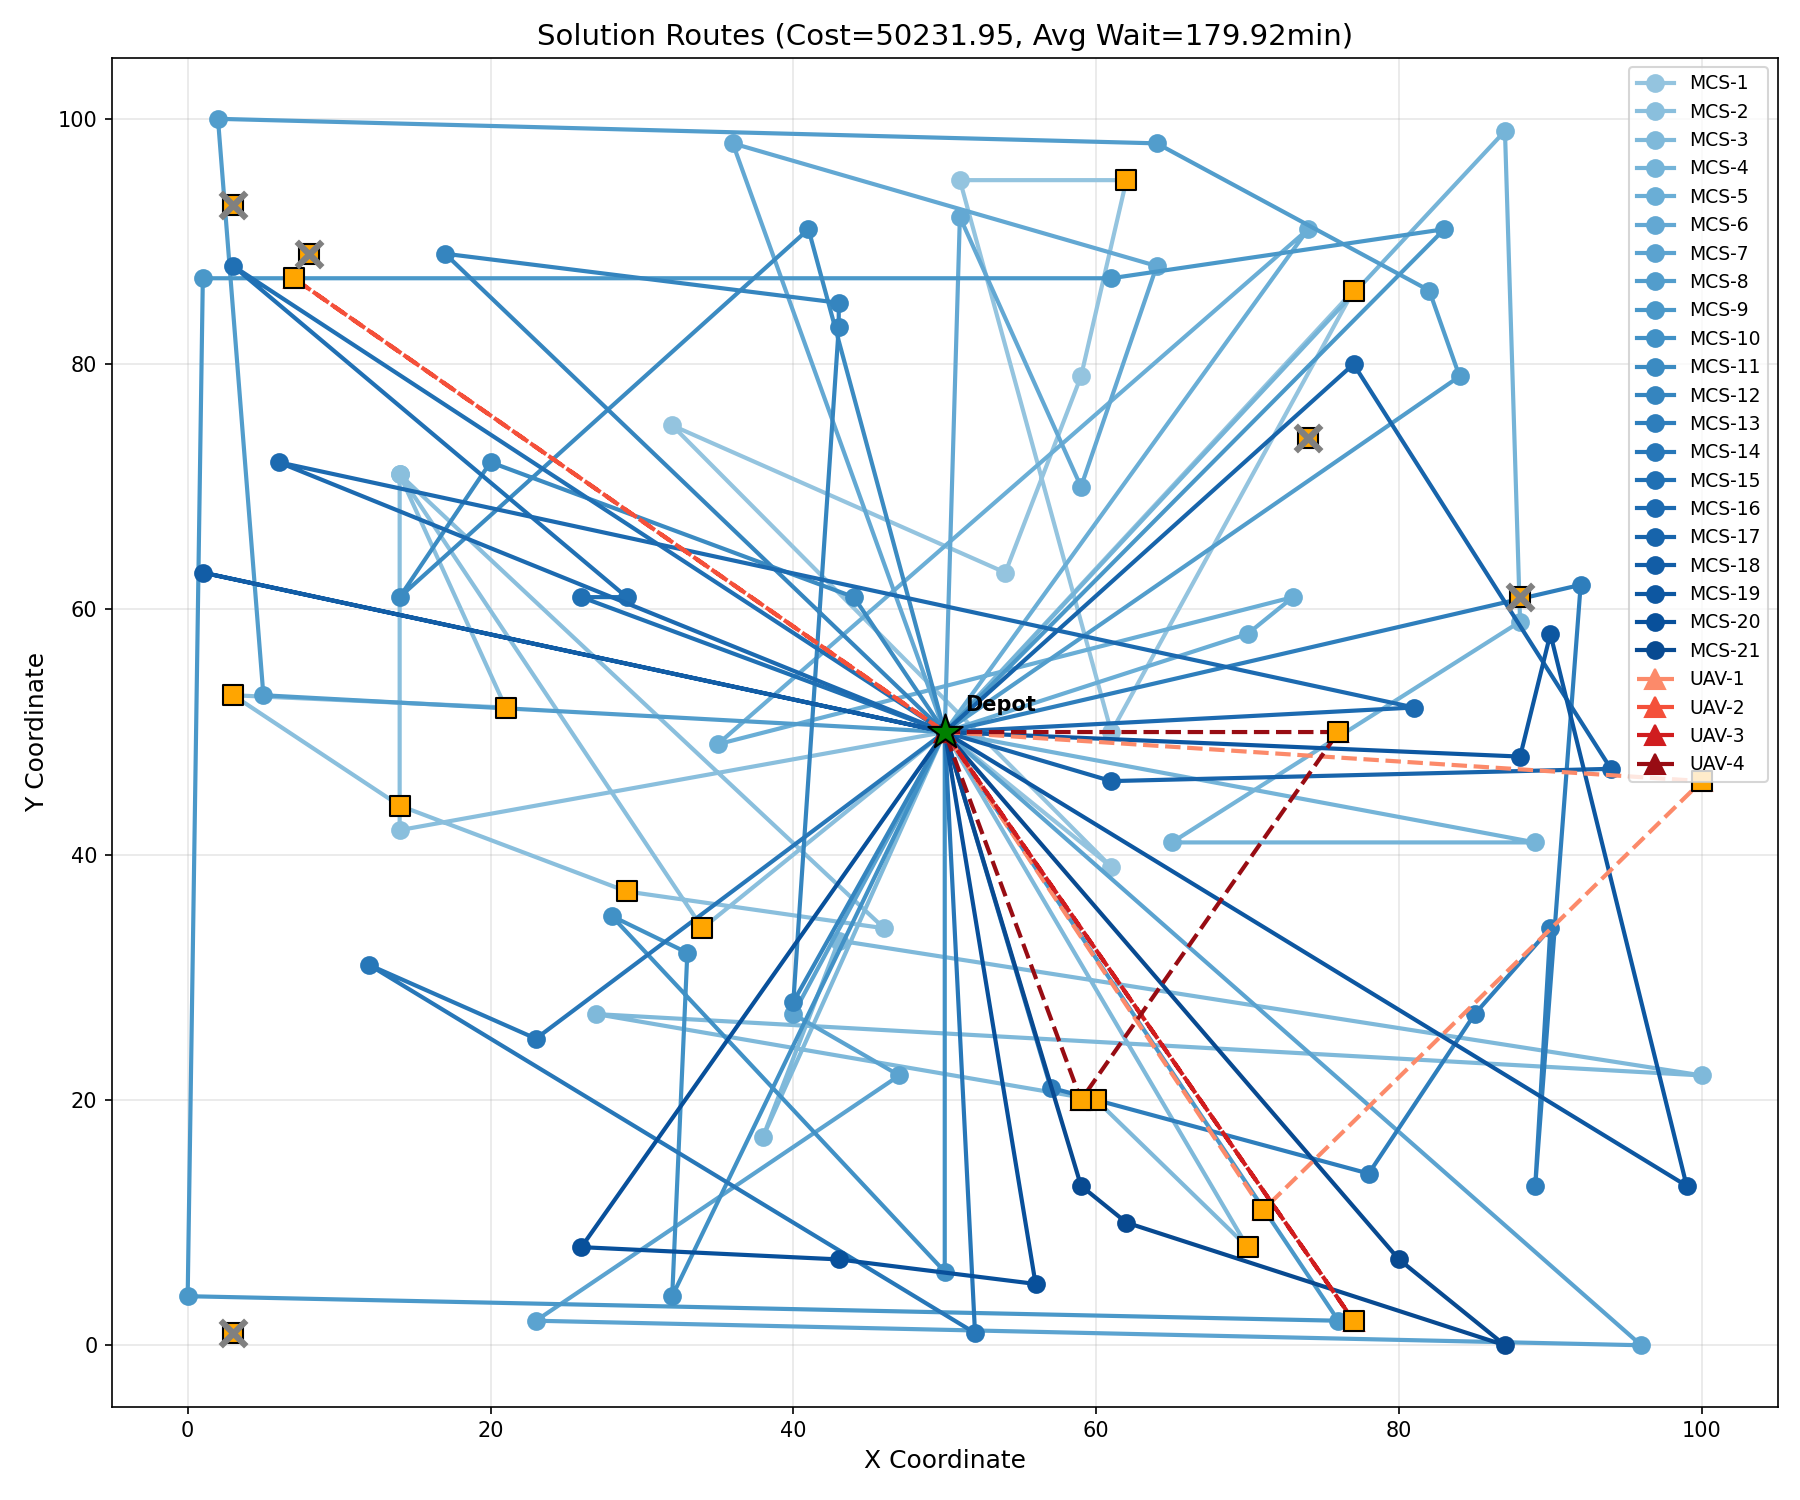
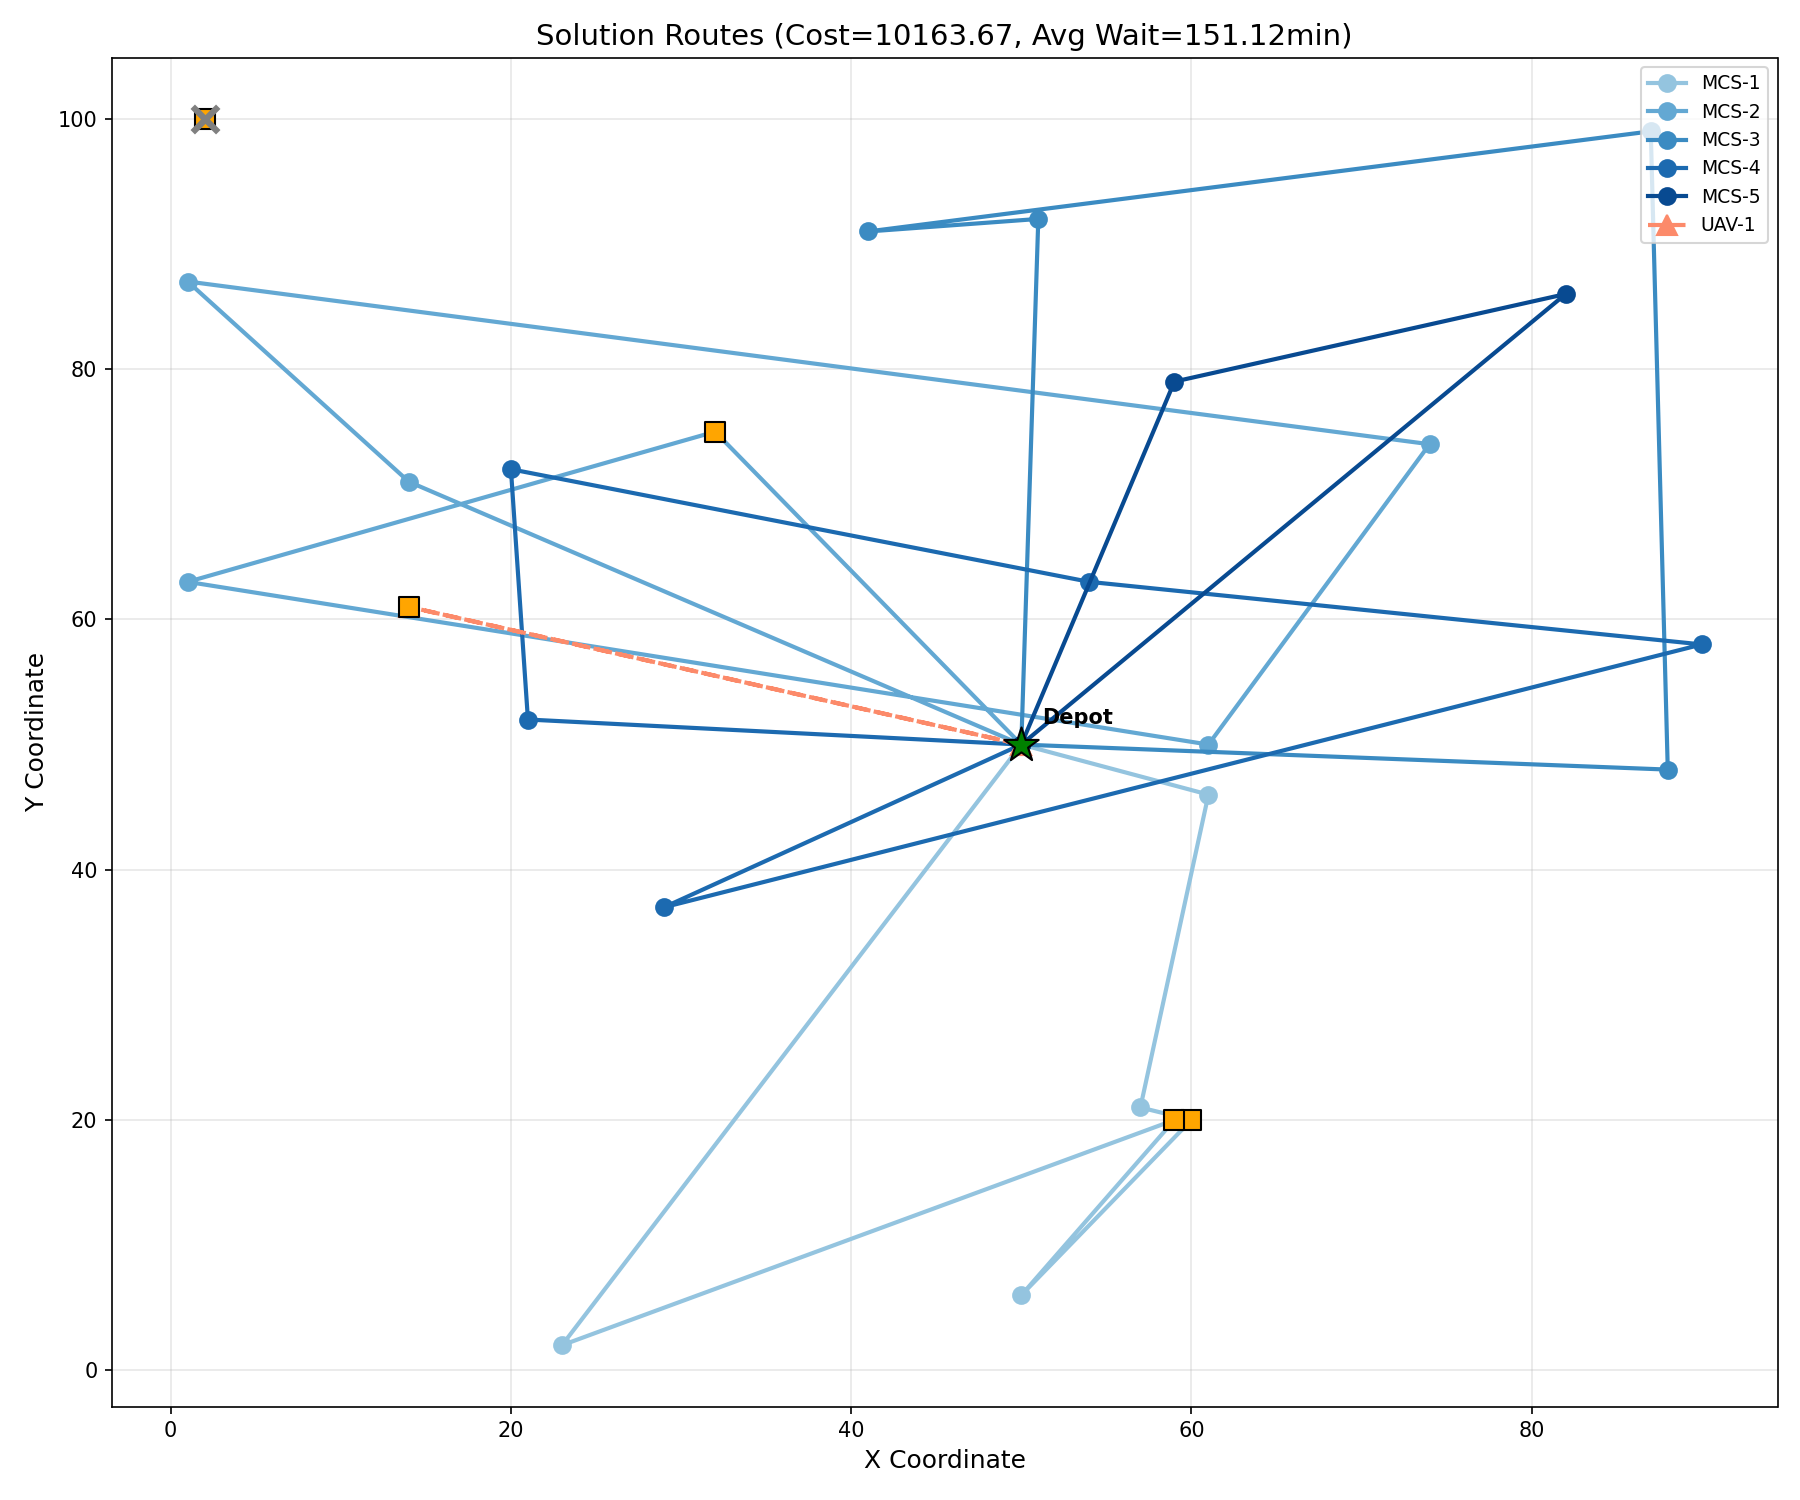
feat: update

diff --git a/main.py b/main.py
@@ -1313,7 +1313,6 @@ class ALNSSolver:
         self.destroy_ops: Dict[str, Callable] = {
             'random_removal': self._random_removal,
             'worst_removal':  self._worst_removal,
-            'shaw_removal':   self._shaw_removal,
         }
         self.repair_ops: Dict[str, Callable] = {
             'greedy_insertion': self._greedy_insertion,
@@ -1569,112 +1568,6 @@ class ALNSSolver:
         self._cleanup_routes(solution)
         return removed_nodes
     
-    def _shaw_removal(self, solution: Solution, num_remove: int) -> List[Node]:
-        """
-        Shaw Removal (Relatedness-based Removal)
-        
-        移除彼此「相似」的節點群，讓 Repair 有更大的重組空間。
-        相似度 (Relatedness) 定義：
-            R(i, j) = φ₁ × d̂(i,j) + φ₂ × |t_i - t_j|/T_max + φ₃ × |q_i - q_j|/Q_max
-        其中 d̂ 為正規化距離，t 為 ready_time，q 為 demand。
-        R 值越小 → 節點越相似 → 越容易被一起移除。
-        
-        Reference: Ropke & Pisinger (2006), Shaw (1998)
-        """
-        # 1. 收集所有已服務節點 (跨 MCS + UAV)
-        all_served: List[Tuple[Node, str, int, int]] = []  # (node, v_type, r_idx, n_pos)
-        
-        for r_idx, route in enumerate(solution.mcs_routes):
-            for n_pos, node in enumerate(route.nodes):
-                all_served.append((node, 'mcs', r_idx, n_pos))
-        
-        for r_idx, route in enumerate(solution.uav_routes):
-            for n_pos, node in enumerate(route.nodes):
-                all_served.append((node, 'uav', r_idx, n_pos))
-        
-        if not all_served:
-            return []
-        
-        num_remove = min(num_remove, len(all_served))
-        
-        # 2. 預計算正規化所需的最大值 (避免除以零)
-        if len(all_served) > 1:
-            max_dist = max(
-                self.problem.calculate_distance(a[0], b[0], 'euclidean')
-                for i, a in enumerate(all_served)
-                for j, b in enumerate(all_served) if i < j
-            ) or 1.0
-            
-            times = [entry[0].ready_time for entry in all_served]
-            max_time_diff = (max(times) - min(times)) or 1.0
-            
-            demands = [entry[0].demand for entry in all_served]
-            max_demand_diff = (max(demands) - min(demands)) or 1.0
-        else:
-            max_dist = max_time_diff = max_demand_diff = 1.0
-        
-        φ1 = self.cfg.SHAW_WEIGHT_DIST
-        φ2 = self.cfg.SHAW_WEIGHT_TIME
-        φ3 = self.cfg.SHAW_WEIGHT_DEMAND
-        P = self.cfg.SHAW_REMOVAL_P
-        
-        # 3. 隨機選擇 seed 節點
-        seed_idx = random.randint(0, len(all_served) - 1)
-        seed_node = all_served[seed_idx][0]
-        
-        # 標記已選中的索引
-        selected_indices: List[int] = [seed_idx]
-        
-        # 4. 迭代選擇相似節點
-        while len(selected_indices) < num_remove:
-            # 從已選中的節點中隨機挑一個作為參考點
-            ref_node = all_served[random.choice(selected_indices)][0]
-            
-            # 計算所有未選中節點對參考節點的 relatedness
-            candidates: List[Tuple[float, int]] = []  # (relatedness, index)
-            for idx, (node, _, _, _) in enumerate(all_served):
-                if idx in set(selected_indices):
-                    continue
-                
-                dist = self.problem.calculate_distance(ref_node, node, 'euclidean')
-                time_diff = abs(ref_node.ready_time - node.ready_time)
-                demand_diff = abs(ref_node.demand - node.demand)
-                
-                relatedness = (
-                    φ1 * (dist / max_dist) +
-                    φ2 * (time_diff / max_time_diff) +
-                    φ3 * (demand_diff / max_demand_diff)
-                )
-                candidates.append((relatedness, idx))
-            
-            if not candidates:
-                break
-            
-            # 依 relatedness 升序排列 (越相似的在前面)
-            candidates.sort(key=lambda x: x[0])
-            
-            # Shaw 隨機選擇: idx = random^P × len (偏好前面的相似節點)
-            rand_val = random.random()
-            pick_idx = int(rand_val ** P * len(candidates))
-            pick_idx = min(pick_idx, len(candidates) - 1)
-            
-            selected_indices.append(candidates[pick_idx][1])
-        
-        # 5. 從後往前拔，避免 Index Shift
-        entries_to_remove = [all_served[i] for i in selected_indices]
-        entries_to_remove.sort(key=lambda x: (x[1], x[2], x[3]), reverse=True)
-        
-        removed_nodes: List[Node] = []
-        for node, v_type, r_idx, n_pos in entries_to_remove:
-            if v_type == 'mcs':
-                removed = solution.mcs_routes[r_idx].remove_node(n_pos)
-            else:
-                removed = solution.uav_routes[r_idx].remove_node(n_pos)
-            removed_nodes.append(removed)
-        
-        self._cleanup_routes(solution)
-        return removed_nodes
-    
     def _cleanup_routes(self, solution: Solution):
         """刷新所有路徑狀態並移除空路徑"""
         # 重新評估所有 MCS 路徑
@@ -1914,7 +1807,7 @@ def main():
     problem.print_config()
     
     # 載入資料
-    problem.load_data('instance_100c_random_s42.csv')
+    problem.load_data('instance_25c_random_s42.csv')
     
     # 分配節點類型 (使用 CSV 中的類型定義)
     problem.assign_node_types(use_csv_types=True)
